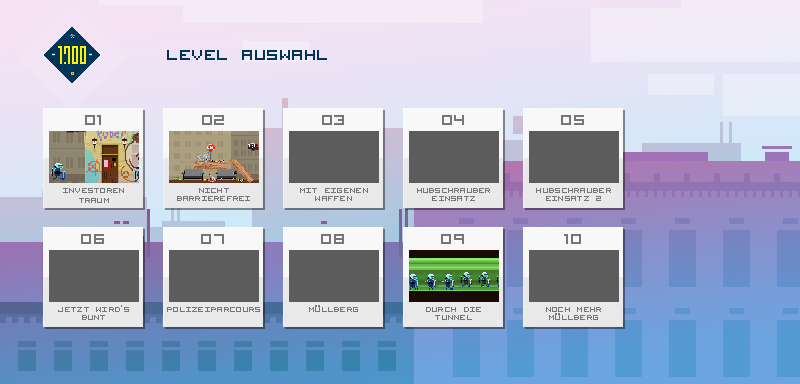
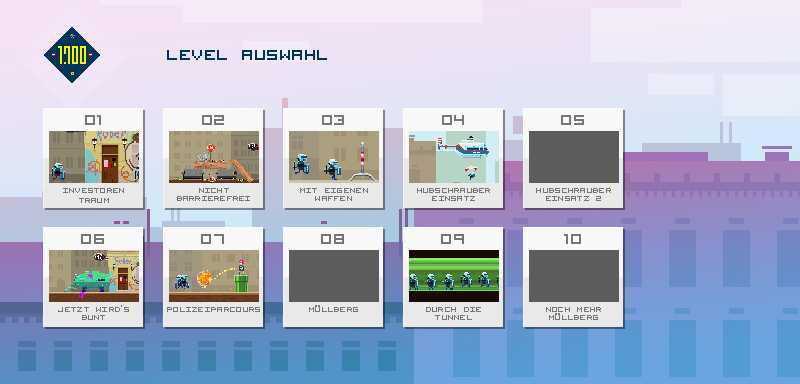
Level screen neu

Changed region(s): [[0.0625, 0.625, 0.3438, 0.8125], [0.3438, 0.3438, 0.625, 0.5]]

diff --git a/1700Easel/src/flavor/lemming/mainScreen.js b/1700Easel/src/flavor/lemming/mainScreen.js
@@ -121,12 +121,12 @@ SelectLevel.prototype.init = function () {
 		this.level.buttons.push(new LevelButton(522,108,100,100,"heliBridge"));
 //		this.level.buttons.push(new LevelButton(800,50,100,100,""));
 		
-		this.level.buttons.push(new LevelButton(42,228,100,100,"jump"));
-		this.level.buttons.push(new LevelButton(162,228,100,100,"Mullberg"));
-		this.level.buttons.push(new LevelButton(282,228,100,100,"devLevel"));
-  		this.level.buttons.push(new LevelButton(402,200,100,100,"subterra"));
-		this.level.buttons.push(new LevelButton(650,200,100,100,""));
-		this.level.buttons.push(new LevelButton(800,200,100,100,"Mullberg2"));
+		this.level.buttons.push(new LevelButton(42,228,100,100,"devLevel"));
+		this.level.buttons.push(new LevelButton(162,228,100,100,"jump"));
+		this.level.buttons.push(new LevelButton(282,228,100,100,"Mullberg"));
+  		this.level.buttons.push(new LevelButton(402,228,100,100,"subterra"));
+		this.level.buttons.push(new LevelButton(522,228,100,100,"Mullberg2"));
+//		this.level.buttons.push(new LevelButton(800,200,100,100,""));
 		soundPlayer.play("atmolong");
 	};
 	this.scrollAction.act = function() {
